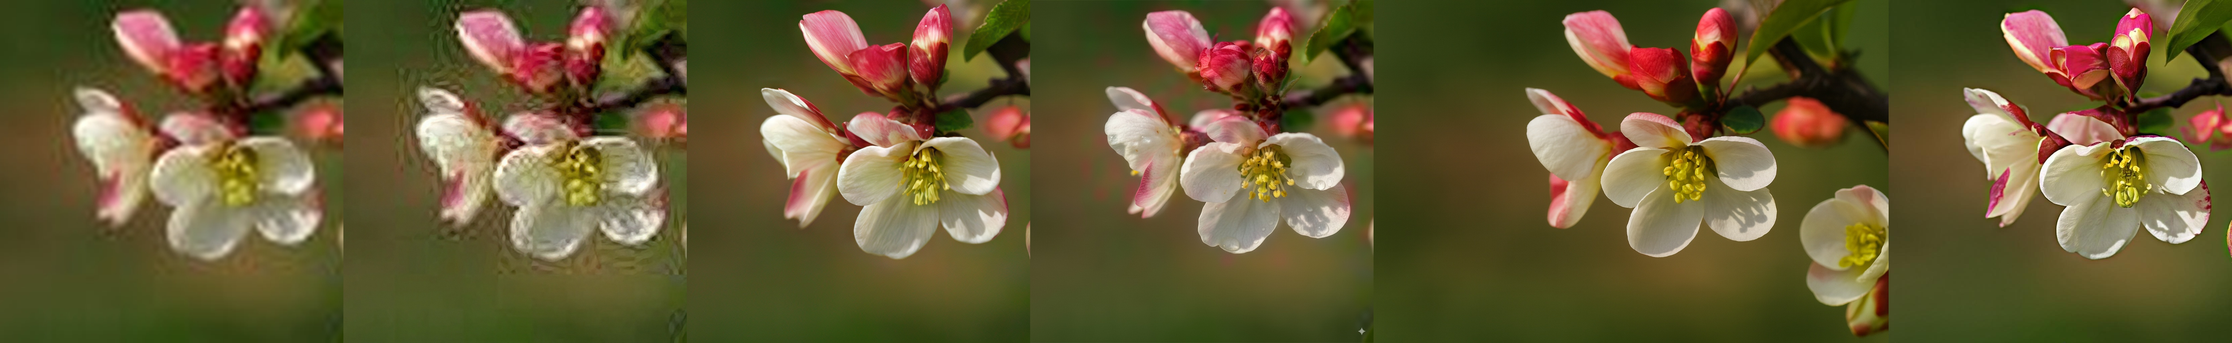
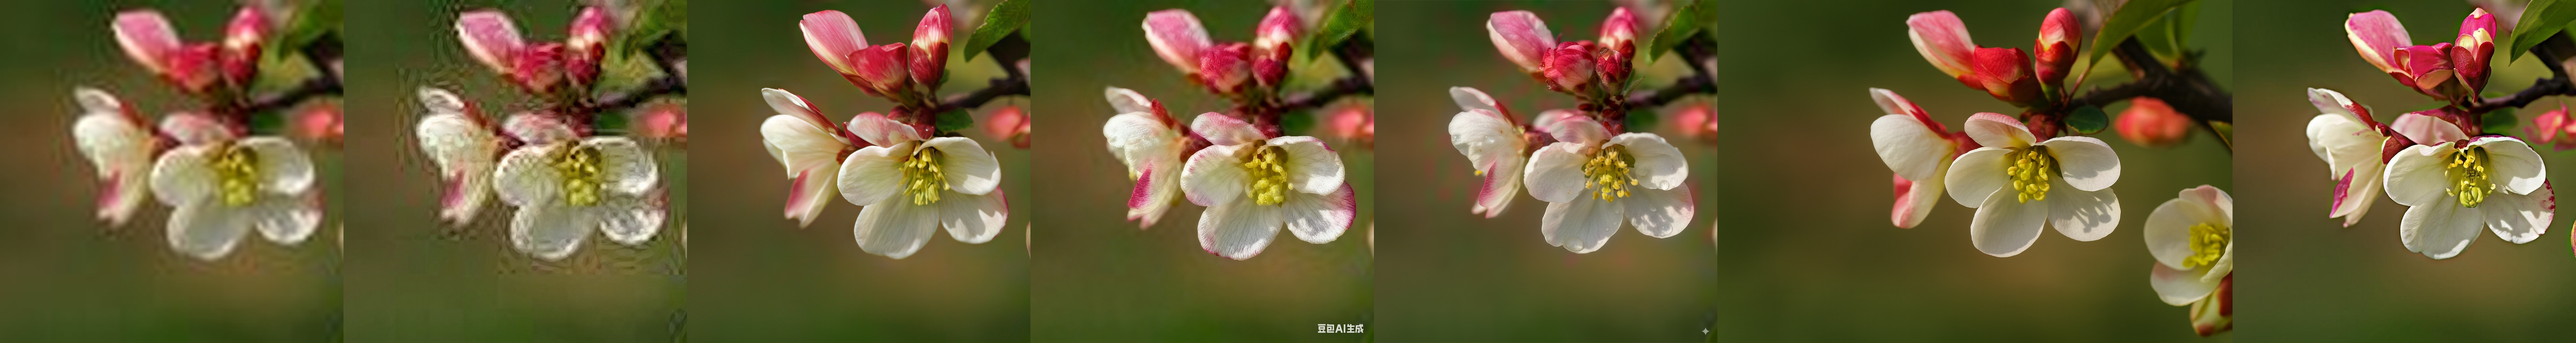
test inference code

diff --git a/README.md b/README.md
@@ -317,24 +317,25 @@ python demo_gradio.py
     <td width="200"><b>LQ</b></td>
     <td width="200"><b>HYPIR</b></td>
     <td width="200"><b>Topaz</b></td>
+    <td width="200"><b>SeeDream 4.0</b></td>
     <td width="200"><b>Gemini-NanoBanana</b></td>
     <td width="200"><b>GPT-4o</b></td>
     <td width="200"><b>Ours</b></td>
 </tr>
-<tr align="center"><td colspan="6"><img src="images/commercial_comparison/commercial_061.jpg" width="1200"></td></tr>
-<tr align="center"><td colspan="6"><img src="images/commercial_comparison/commercial_094.jpg" width="1200"></td></tr>
-<tr align="center"><td colspan="6"><img src="images/commercial_comparison/commercial_205.jpg" width="1200"></td></tr>
-<tr align="center"><td colspan="6"><img src="images/commercial_comparison/commercial_209.jpg" width="1200"></td></tr>
+<tr align="center"><td colspan="7"><img src="images/commercial_comparison/commercial_061.jpg" width="1400"></td></tr>
+<tr align="center"><td colspan="7"><img src="images/commercial_comparison/commercial_094.jpg" width="1400"></td></tr>
+<tr align="center"><td colspan="7"><img src="images/commercial_comparison/commercial_205.jpg" width="1400"></td></tr>
+<tr align="center"><td colspan="7"><img src="images/commercial_comparison/commercial_209.jpg" width="1400"></td></tr>
 </table>
 
 <details>
 <summary>Show more examples</summary>
 
 <table>
-<tr align="center"><td colspan="6"><img src="images/commercial_comparison/commercial_062.jpg" width="1200"></td></tr>
-<tr align="center"><td colspan="6"><img src="images/commercial_comparison/commercial_160.jpg" width="1200"></td></tr>
-<tr align="center"><td colspan="6"><img src="images/commercial_comparison/commercial_111.jpg" width="1200"></td></tr>
-<tr align="center"><td colspan="6"><img src="images/commercial_comparison/commercial_123.jpg" width="1200"></td></tr>
+<tr align="center"><td colspan="7"><img src="images/commercial_comparison/commercial_062.jpg" width="1400"></td></tr>
+<tr align="center"><td colspan="7"><img src="images/commercial_comparison/commercial_160.jpg" width="1400"></td></tr>
+<tr align="center"><td colspan="7"><img src="images/commercial_comparison/commercial_111.jpg" width="1400"></td></tr>
+<tr align="center"><td colspan="7"><img src="images/commercial_comparison/commercial_123.jpg" width="1400"></td></tr>
 </table>
 
 </details>
